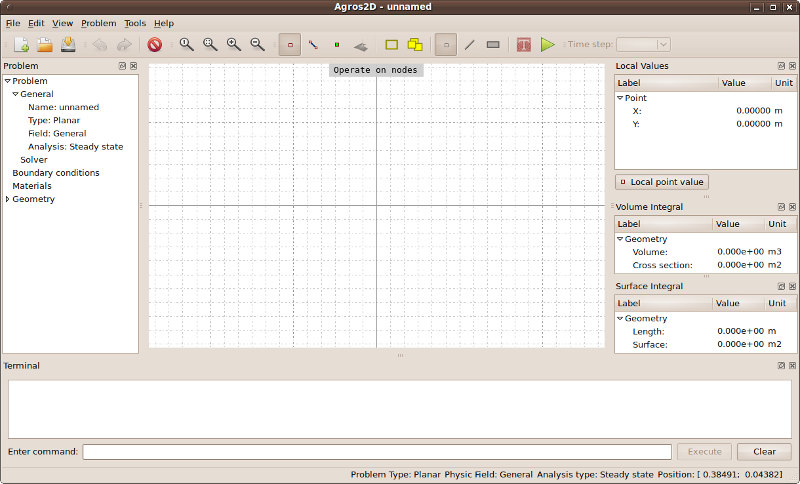
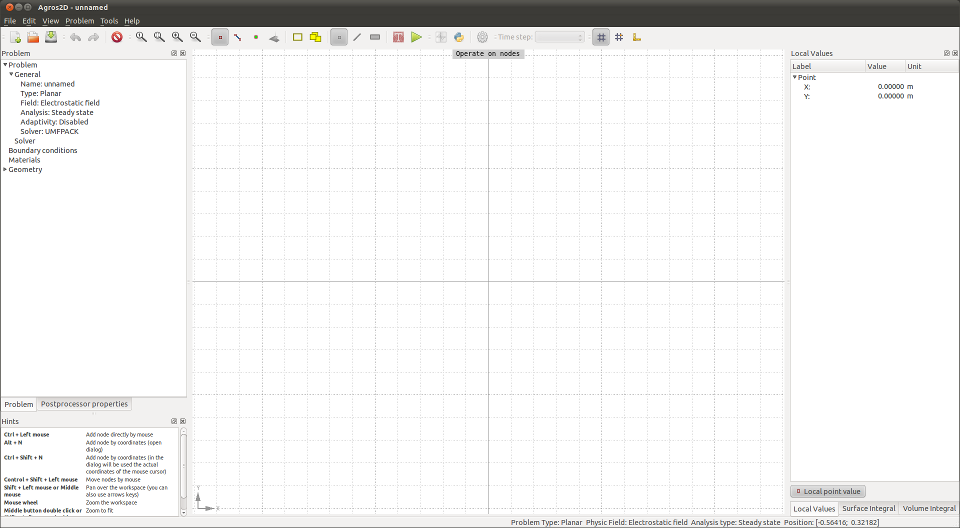
work on documentation

diff --git a/doc/source/conf.py b/doc/source/conf.py
@@ -112,20 +112,11 @@ html_theme_options = {
 'headlinkcolor': '#3D5C7A',
 'codebgcolor': '#F5F5F5',
 'codetextcolor': '#000000',
-
-# Style for help
-'relbarbgcolor': '#FFFFFF',
+'relbarbgcolor': '#824513',
 'relbartextcolor': '#000000',
-'relbarlinkcolor': '#3D5C7A',
+'relbarlinkcolor': '#FFFFFF',
 'footerbgcolor': '#FFFFFF',
 'footertextcolor': '#000000',
-
-# Style for web
-#'relbarbgcolor': '#824513',
-#'relbartextcolor': '#000000',
-#'relbarlinkcolor': '#FFFFFF',
-#'footerbgcolor': '#FFFFFF',
-#'footertextcolor': '#000000',
 }
 
 # Add any paths that contain custom themes here, relative to this directory.

diff --git a/doc/source/index.rst b/doc/source/index.rst
@@ -1,23 +1,75 @@
-Content of Agros2D Documentation
-================================
+Agros2D Documentation
+=====================
+
+Agros2D is a multiplatform C++ application for the solution of partial differential equations (PDE) based on the Hermes_ library, developed by the group at the University of West Bohemia in Pilsen. Agros2D is distributed under the GNU General Public License.
+
+Introduction
+------------
 
 .. toctree::
-   :maxdepth: 2
+   :maxdepth: 1
 
-   ./getting_started/getting_started.rst
-   ./theory/theory.rst
-   ./scripting/scripting.rst
+   ./introduction/about_agros2d.rst
+   ./compilation/windows.rst
+
+Getting Started
+---------------
+
+.. toctree::
+   :maxdepth: 1
+
+   ./getting_started/basic_control.rst
+   ./getting_started/editing_geometry.rst
+   ./getting_started/solving_problem.rst
+   ./getting_started/processing_results.rst
+
+Mathematical Background
+-----------------------
+
+.. toctree::
+   :maxdepth: 1
+
+   ./mathematical_background/physical_fields_theory.rst
+
+Scripting
+---------
+
+.. toctree::
+   :maxdepth: 1
+
+   ./scripting/commands.rst
+   ./scripting/keyword_list.rst
+
+Program Features
+----------------
+
+.. toctree::
+   :maxdepth: 1
+
    ./program_features/program_features.rst
-   ./examples/examples.rst
-   ./compile_win/compile_win.rst
-   ./glossary.rst
+
+Tutorials
+---------
+
+.. toctree::
+   :maxdepth: 1
+
+   ./tutorials/electrostatic_planar_capacitor.rst
+   ./tutorials/electrostatic_axisymmetric_capacitor.rst
+
+Changelog
+---------
+
+.. toctree::
+   :maxdepth: 1
+
    ./changelog.rst
 
 Links
-=====
+-----
 
 * Agros2D_ (project homepage)
-* Hermes2D_ (project homepage)
+* Hermes_ (project homepage)
 * hp-FEM_ group
 
 Indices and Tables
@@ -27,6 +79,6 @@ Indices and Tables
 
 * :ref:`glossary`
 
-.. _Agros2D: http://www.hpfem.org/agros2d
-.. _Hermes2D: http://www.hpfem.org/hermes2d
-.. _hp-FEM: http://www.hpfem.org
+.. _Agros2D: http://agros2d.org
+.. _Hermes: http://hpfem.org/hermes
+.. _hp-FEM: http://hpfem.org

diff --git a/doc/source/introduction/about_agros2d.rst b/doc/source/introduction/about_agros2d.rst
@@ -1,0 +1,41 @@
+About Agros2D
+=============
+
+Supported Physical Fields
+-------------------------
+
+* Electrostatic field
+* Electric current field
+* Magnetic field (steady state, harmonic and transient analysis)
+* Heat transfer (steady state and transient analysis)
+* Structural mechanics
+* Incompressible flow (steady state and transient analysis) – in development
+* RF field – in development
+
+Key Features
+------------
+
+* Interactive geometry definition
+* Curvilinear elements
+* AutoCAD DXF (Drawing Exchange Format) import and export
+* Automatic hp-adaptivity
+* Steady state and transient analysis
+* Visualization of field variables
+* Extraction of local values
+* Calculation of surface and volume integrals
+* Export of charts, data, and images
+* Export movies (transient analysis)
+* Scripting support (based on Python language)
+* Remote control
+* Html report
+
+Requirements
+------------
+
+* Hermes (http://www.hpfem.org/hermes)
+* Nokia Qt (http://www.qtsoftware.com/products)
+* Python (http://www.python.org)
+* dxflib (http://www.ribbonsoft.com/dxflib.html)
+* Qwt (http://qwt.sourceforge.net)
+* Triangle (http://www.cs.cmu.edu/~quake/triangle.html
+* FFmpeg (http://ffmpeg.org)

diff --git a/doc/source/getting_started/basic_control.rst b/doc/source/getting_started/basic_control.rst
@@ -11,7 +11,7 @@ Main window consists of several parts.
 
 * Menu bar and toolbar
 
-  Menu bar is the main control element; you can find all commands there. In toolbar the most frequently used commands are placed.
+  Menu bar is the main control element, you can find all commands there. In toolbar the most frequently used commands are placed.
 
 * Workspace
 
@@ -37,6 +37,10 @@ Main window consists of several parts.
 
     Information about elements of geometry that are added to the workspace is contained here.
 
+* Postprocessor properties panel
+
+  Postprocessor properties panel is used for display results of solution.
+
 * Local Values panel
 
   This panel displays calculated field quantity of local points.
@@ -52,6 +56,10 @@ Main window consists of several parts.
 * Terminal panel
 
   This panel is used to enter commands and display their output.
+
+* Hints
+
+  Hints displays short informations abouth actual modes or possible operations.
 
 * Status bar
 
@@ -104,6 +112,10 @@ Basic shortcuts in main window
 * **F8**
 
   Change mode to Postprocessor.
+
+* **F12**
+
+  Open Problem properties dialog.
 
 * **Alt+N**
 

diff --git a/doc/source/getting_started/solving_problem.rst b/doc/source/getting_started/solving_problem.rst
@@ -6,6 +6,14 @@ Basic Procedure for Solving
 
 To solve the formulated problem select "Solve problem" in the menu "Problem" or press Alt+S. During the solving of the problem, a special window is shown which is used for notifications about the solving process and error reporting. If the solution is correct, general information about the solving process is shown on the "Problem" panel.
 
+Generating of Initial Mesh
+--------------------------
+
+Initial mesh for solution is generating automatic before solving, but you can set basic parameters of this mesh. In "Problem properties" dialog you can choose type of mesh elements (default is "Triangle"). Further opinions are "Number of refinements" and "Polynomial order".
+
+Adaptivity
+----------
+
 Tips
 ----
 

diff --git a/doc/source/getting_started/processing_results.rst b/doc/source/getting_started/processing_results.rst
@@ -4,9 +4,9 @@ Processing Results
 Viewing of Results
 ------------------
 
-You can display your results using various pre-defined ways. Select "Scene properties" in menu "View" to open dialog "Scene View" or double click in workspace and select this possibility in the context menu.
+You can display your results using various pre-defined ways. All options can be set using the panel "Postprocessor properties".
 
-.. image:: ./scene_view_dialog.png
+.. image:: ./postprocessor_properties_panel.png
 
 Fig. 1.: Scene View dialog
 

diff --git a/doc/source/mathematical_background/physical_fields_theory.rst b/doc/source/mathematical_background/physical_fields_theory.rst
@@ -1,5 +1,5 @@
-Physical Field Theory
-=====================
+Physical Fields Theory
+======================
 
 In this chapter we will describe physical field equations used in Agros2D.
 
